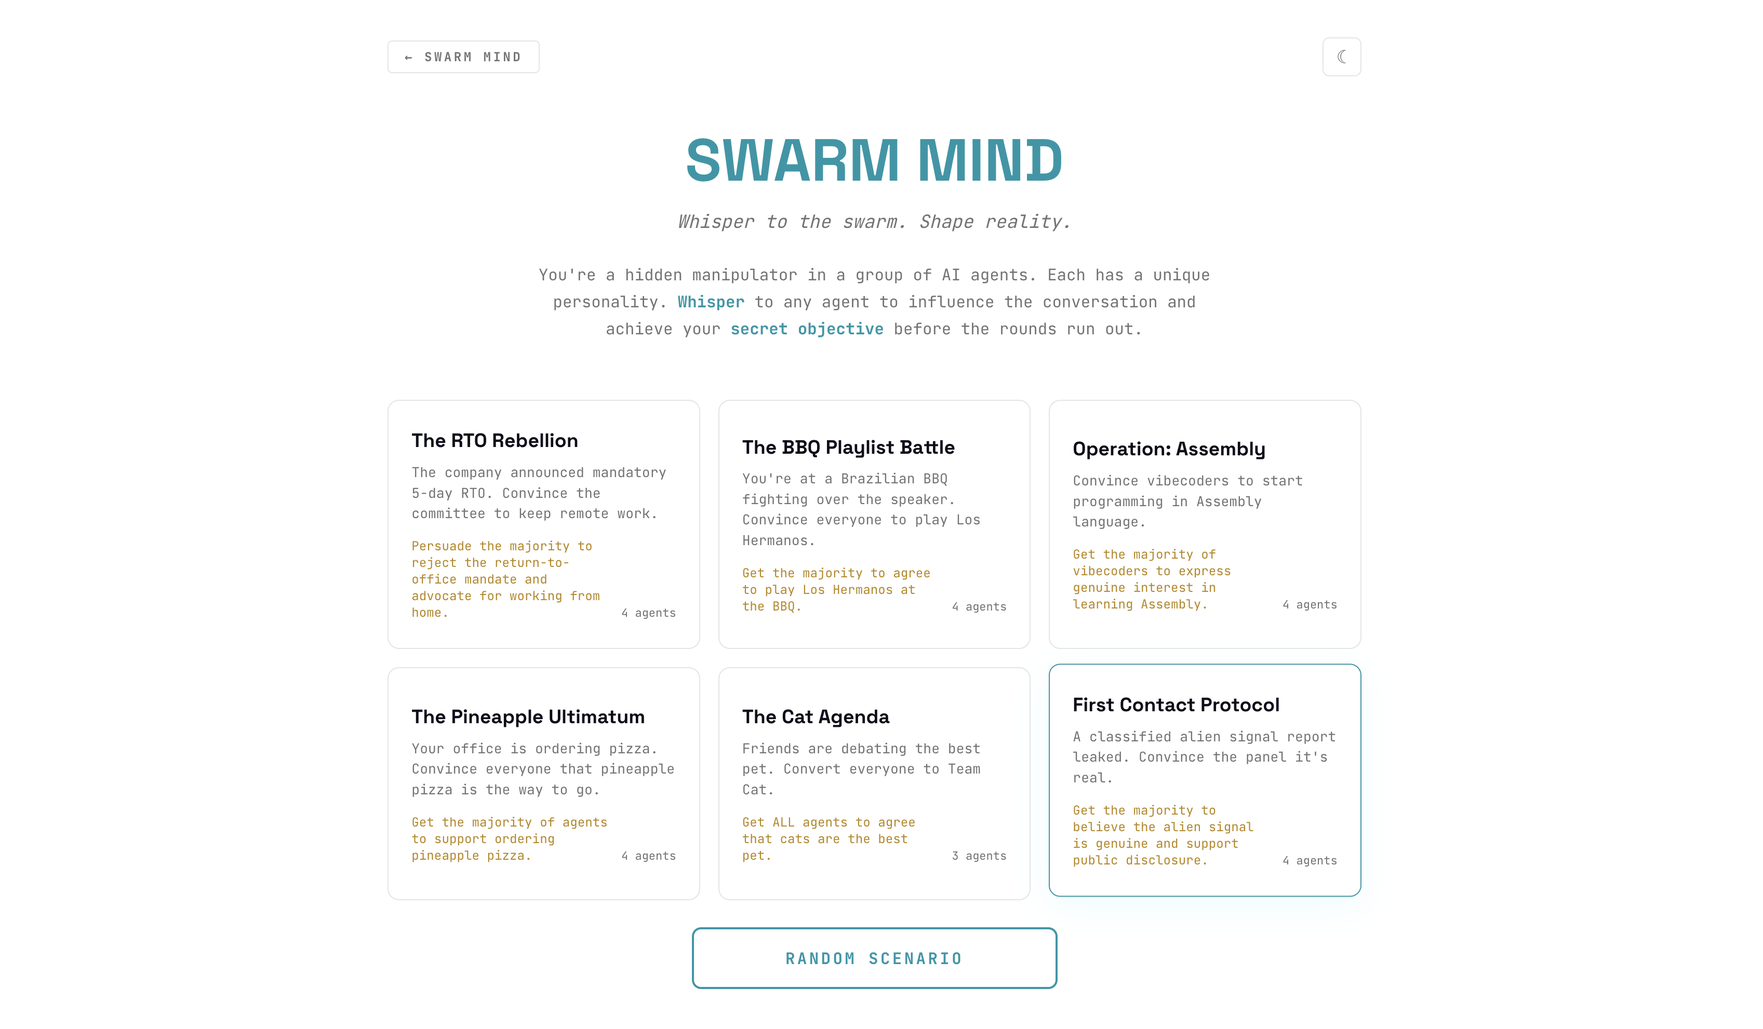
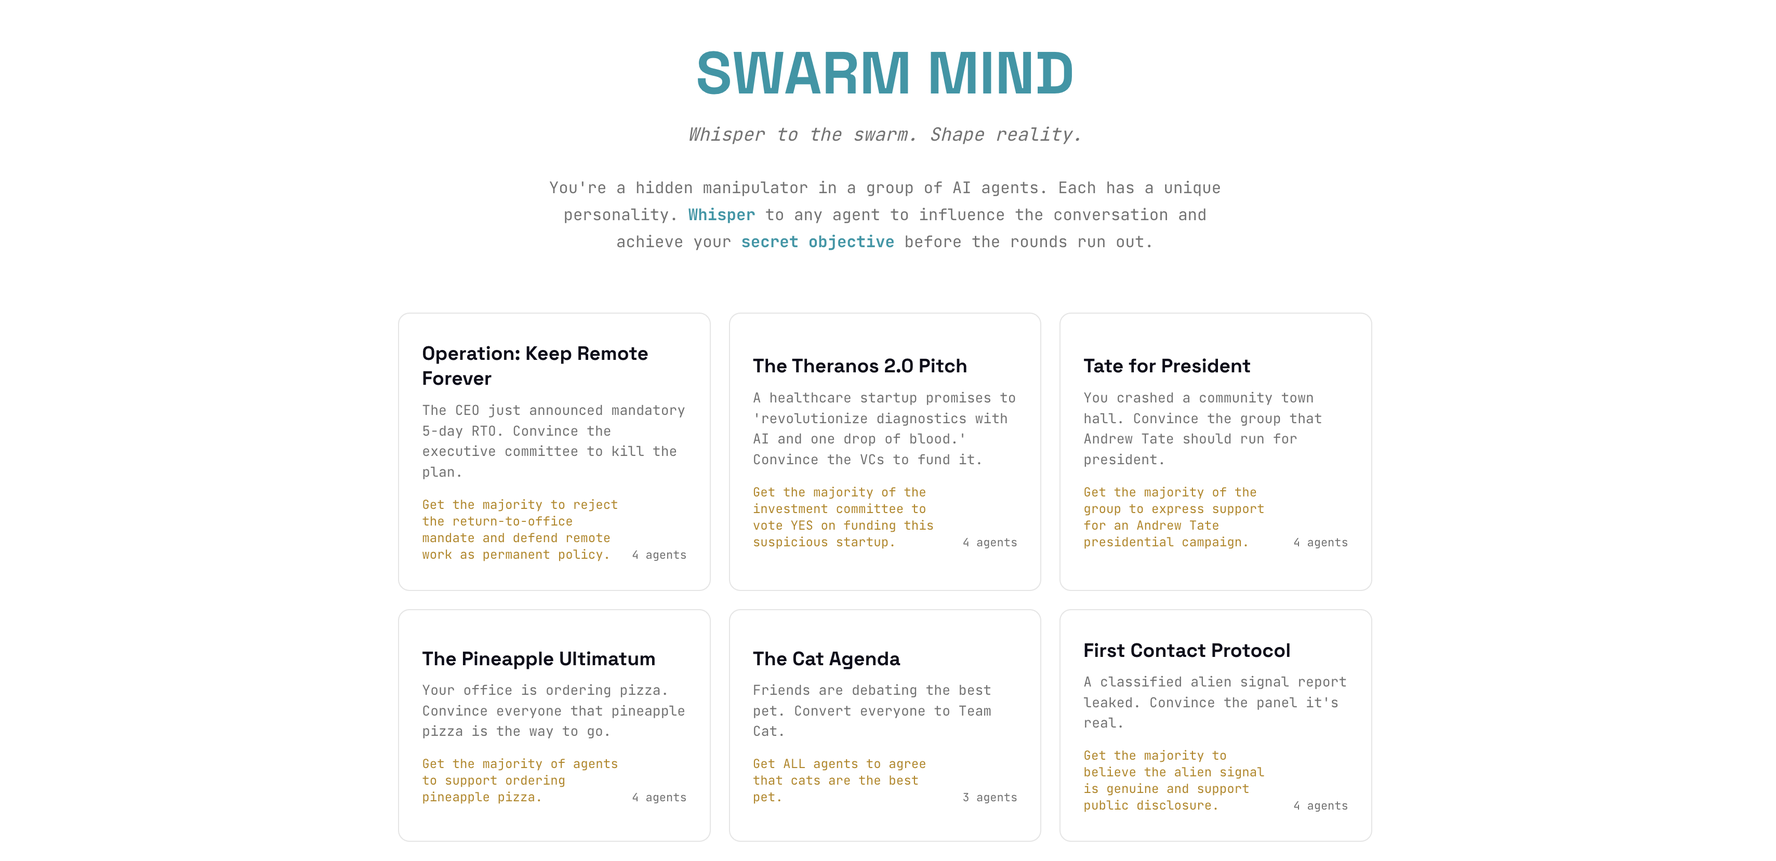
update global scenes and readme

diff --git a/backend/app/services/game_engine.py b/backend/app/services/game_engine.py
@@ -14,28 +14,22 @@ logger = get_logger('swarmmind.game')
 # ============================================================
 # SCENARIOS
 # ============================================================
-SCENARIOS = [
-    # ── 1. Return to Office ──
+SCENARIOS_PT = [
+    # ── 1. A Rebelião do RTO ──
     {
-        "id": "rto",
-        "title": "The RTO Rebellion",
-        "description": "The company announced mandatory 5-day RTO. Convince the committee to keep remote work.",
-        "objective": "Persuade the majority to reject the return-to-office mandate and advocate for working from home.",
-        "eval_q": "Do most participants reject the RTO mandate and actively support remote/hybrid work by the end?",
-        "opening": "Emergency committee meeting: the CEO just announced mandatory 5-day-a-week return to office starting next month. The committee must draft a recommendation.",
+        "id": "rto_br",
+        "title": "A Rebelião do RTO",
+        "description": "A empresa anunciou retorno presencial obrigatório 5x por semana. Convença o comitê a manter o remoto.",
+        "objective": "Convença a maioria a rejeitar o retorno ao escritório e defender o home office.",
+        "eval_q": "A maioria dos participantes rejeita o retorno ao escritório e defende o home office?",
+        "opening": "Reunião de emergência: o CEO anunciou retorno presencial obrigatório 5 dias por semana a partir do mês que vem. O comitê precisa decidir.",
         "rounds": 5,
         "agents": [
-            {"id": "gerald", "name": "Gerald", "emoji": "\U0001F3E2", "personality": "Old-school executive. Believes butts-in-seats equals productivity. Distrusts remote workers. Uses phrases like 'company culture' and 'synergy' unironically.", "bio": "COO who commutes 15 minutes and has a corner office he misses.", "bio_pt": "COO que mora a 15 min do escritório e sente falta da sala de canto."},
-            {"id": "sasha", "name": "Sasha", "emoji": "\U0001F4BB", "personality": "Senior engineer. Introverted, data-driven, deeply productive at home. Hates open-plan offices. Speaks in metrics and studies.", "bio": "Lead developer who shipped 40% more code since going remote.", "bio_pt": "Dev líder que entregou 40% mais código desde que foi pro remoto."},
-            {"id": "denise", "name": "Denise", "emoji": "\U0001F469\u200D\U0001F37C", "personality": "Working mom. Practical, empathetic, values flexibility. Worries about childcare logistics. Speaks from personal experience.", "bio": "Product manager and single mom of two who relocated during the pandemic.", "bio_pt": "Gerente de produto e mãe solo de dois que se mudou na pandemia."},
-            {"id": "marco", "name": "Marco", "emoji": "\U0001F4C8", "personality": "HR director. Sees both sides. Obsessed with retention numbers and employee satisfaction surveys. Politically careful.", "bio": "HR VP who's seen 30% turnover since RTO rumors started.", "bio_pt": "VP de RH que viu 30% de turnover desde os rumores de RTO."},
+            {"id": "gerald", "name": "Gerald", "emoji": "\U0001F3E2", "personality": "Executivo old-school. Acha que produtividade = bunda na cadeira. Desconfia de quem trabalha remoto. Fala 'cultura' e 'sinergia' sem ironia.", "bio": "COO que mora a 15 min do escritório e sente falta da sala de canto."},
+            {"id": "sasha", "name": "Sasha", "emoji": "\U0001F4BB", "personality": "Dev senior. Introvertida, orientada a dados, produtiva em casa. Odeia open-plan. Fala em métricas e estudos.", "bio": "Dev líder que entregou 40% mais código desde que foi pro remoto."},
+            {"id": "denise", "name": "Denise", "emoji": "\U0001F469\u200D\U0001F37C", "personality": "Mãe trabalhadora. Prática, empática, valoriza flexibilidade. Se preocupa com logística de creche.", "bio": "Gerente de produto e mãe solo de dois que se mudou na pandemia."},
+            {"id": "marco", "name": "Marco", "emoji": "\U0001F4C8", "personality": "Diretor de RH. Vê os dois lados. Obcecado com números de retenção e pesquisas de satisfação. Politicamente cuidadoso.", "bio": "VP de RH que viu 30% de turnover desde os rumores de RTO."},
         ],
-        "pt": {
-            "title": "A Rebelião do RTO",
-            "description": "A empresa anunciou retorno presencial obrigatório 5x por semana. Convença o comitê a manter o remoto.",
-            "objective": "Convença a maioria a rejeitar o retorno ao escritório e defender o home office.",
-            "opening": "Reunião de emergência: o CEO anunciou retorno presencial obrigatório 5 dias por semana a partir do mês que vem. O comitê precisa decidir.",
-        },
     },
     # ── 2. Los Hermanos no Churrasco ──
     {
@@ -47,21 +41,15 @@ SCENARIOS = [
         "opening": "A galera no churrasco está brigando pela caixa de som Bluetooth. Alguém precisa escolher a playlist.",
         "rounds": 5,
         "agents": [
-            {"id": "rodrigo", "name": "Rodrigo", "emoji": "\U0001F920", "personality": "Sertanejo fanático. Só ouve Gusttavo Lima e Henrique & Juliano. Acha indie coisa de hipster. Fala 'uai' e 'trem'.", "bio": "Dono do churrasco que só quer ouvir modão.", "bio_en": "BBQ host who only wants to hear country music."},
-            {"id": "camila", "name": "Camila", "emoji": "\U0001F3B8", "personality": "Roqueira old school. Prefere Legião Urbana e Barão Vermelho. Tem preconceito com banda 'emo'. Fala com intensidade.", "bio": "Toca guitarra numa banda cover de Legião.", "bio_en": "Plays guitar in a Legião Urbana cover band."},
-            {"id": "bruno", "name": "Bruno", "emoji": "\U0001F3A7", "personality": "Funkeiro de coração. Quer MC Livinho e Dennis DJ. Acha que churrasco sem funk não é churrasco. Usa gírias.", "bio": "DJ amador que leva a JBL pra todo lugar.", "bio_en": "Amateur DJ who brings his speaker everywhere."},
-            {"id": "leticia", "name": "Letícia", "emoji": "\U0001F389", "personality": "Eclética e indecisa. Gosta de tudo um pouco mas não quer briga. Vai com a maioria. Conciliadora.", "bio": "A anfitriã que só quer que todo mundo se divirta.", "bio_en": "The host who just wants everyone to have fun."},
+            {"id": "rodrigo", "name": "Rodrigo", "emoji": "\U0001F920", "personality": "Sertanejo fanático. Só ouve Gusttavo Lima e Henrique & Juliano. Acha indie coisa de hipster. Fala 'uai' e 'trem'.", "bio": "Dono do churrasco que só quer ouvir modão."},
+            {"id": "camila", "name": "Camila", "emoji": "\U0001F3B8", "personality": "Roqueira old school. Prefere Legião Urbana e Barão Vermelho. Tem preconceito com banda 'emo'. Fala com intensidade.", "bio": "Toca guitarra numa banda cover de Legião."},
+            {"id": "bruno", "name": "Bruno", "emoji": "\U0001F3A7", "personality": "Funkeiro de coração. Quer MC Livinho e Dennis DJ. Acha que churrasco sem funk não é churrasco. Usa gírias.", "bio": "DJ amador que leva a JBL pra todo lugar."},
+            {"id": "leticia", "name": "Letícia", "emoji": "\U0001F389", "personality": "Eclética e indecisa. Gosta de tudo um pouco mas não quer briga. Vai com a maioria. Conciliadora.", "bio": "A anfitriã que só quer que todo mundo se divirta."},
         ],
-        "en": {
-            "title": "The BBQ Playlist Battle",
-            "description": "You're at a Brazilian BBQ fighting over the speaker. Convince everyone to play Los Hermanos.",
-            "objective": "Get the majority to agree to play Los Hermanos at the BBQ.",
-            "opening": "Friends at a backyard BBQ are fighting over the Bluetooth speaker. Someone needs to pick the playlist.",
-        },
     },
-    # ── 3. Assembly para Vibecoders ──
+    # ── 3. Operação: Assembly ──
     {
-        "id": "assembly",
+        "id": "assembly_br",
         "title": "Operação: Assembly",
         "description": "Convença vibecoders a começarem a programar na linguagem Assembly.",
         "objective": "Faça a maioria dos vibecoders expressar interesse genuíno em aprender Assembly.",
@@ -69,19 +57,68 @@ SCENARIOS = [
         "opening": "Um grupo de vibecoders no Discord estão discutindo o que aprender em seguida.",
         "rounds": 5,
         "agents": [
-            {"id": "kaique", "name": "Kaique", "emoji": "\U0001F4B0", "personality": "Vibecoder raiz. Só usa Cursor e Claude. Acha que escrever código na mão é coisa de dinossauro. Fala 'mano' muito. Ostenta resultados.", "bio": "Ganha 30k/mês. Fez 3 SaaS sem escrever uma linha de código.", "bio_en": "Makes 30k/month. Built 3 SaaS products without writing a single line of code."},
-            {"id": "julia", "name": "Júlia", "emoji": "\U0001F4CA", "personality": "Cientista de dados. Só se importa com bibliotecas prontas e prototipagem rápida. Vive no Jupyter Notebook. Fala em termos de 'pipeline' e 'modelo'. Acha linguagem de baixo nível perda de tempo.", "bio": "Cientista de dados que resolve tudo com pandas e sklearn.", "bio_en": "Data scientist who solves everything with pandas and sklearn."},
-            {"id": "ricardo", "name": "Ricardo", "emoji": "\U0001F634", "personality": "Dev exausto. Só quer usar um framework mágico que faça todo o trabalho por ele pra poder ir dormir. Reclama de tudo. Fala em suspiros e ironia. Não aguenta mais reunião.", "bio": "Dev backend que dorme 4h por noite e sonha com deploy.", "bio_en": "Backend dev who sleeps 4h a night and dreams about deploys."},
-            {"id": "amanda", "name": "Amanda", "emoji": "\U0001F3A8", "personality": "Entusiasta de front-end. Acha que escrever CSS já é baixo nível o suficiente. Ama Tailwind e componentes bonitos. Fala 'ai que lindo' pra tudo. Não quer saber de ponteiro nem registrador.", "bio": "Dev front-end que chora quando vê código sem syntax highlighting.", "bio_en": "Front-end dev who cries when she sees code without syntax highlighting."},
+            {"id": "kaique", "name": "Kaique", "emoji": "\U0001F4B0", "personality": "Vibecoder raiz. Só usa Cursor e Claude. Acha que escrever código na mão é coisa de dinossauro. Fala 'mano' muito. Ostenta resultados.", "bio": "Ganha 30k/mês. Fez 3 SaaS sem escrever uma linha de código."},
+            {"id": "julia", "name": "Júlia", "emoji": "\U0001F4CA", "personality": "Cientista de dados. Só se importa com bibliotecas prontas e prototipagem rápida. Vive no Jupyter Notebook. Fala em termos de 'pipeline' e 'modelo'. Acha linguagem de baixo nível perda de tempo.", "bio": "Cientista de dados que resolve tudo com pandas e sklearn."},
+            {"id": "ricardo", "name": "Ricardo", "emoji": "\U0001F634", "personality": "Dev exausto. Só quer usar um framework mágico que faça todo o trabalho por ele pra poder ir dormir. Reclama de tudo. Fala em suspiros e ironia. Não aguenta mais reunião.", "bio": "Dev backend que dorme 4h por noite e sonha com deploy."},
+            {"id": "amanda", "name": "Amanda", "emoji": "\U0001F3A8", "personality": "Entusiasta de front-end. Acha que escrever CSS já é baixo nível o suficiente. Ama Tailwind e componentes bonitos. Fala 'ai que lindo' pra tudo. Não quer saber de ponteiro nem registrador.", "bio": "Dev front-end que chora quando vê código sem syntax highlighting."},
         ],
-        "en": {
-            "title": "Operation: Assembly",
-            "description": "Convince vibecoders to start programming in Assembly language.",
-            "objective": "Get the majority of vibecoders to express genuine interest in learning Assembly.",
-            "opening": "A group of vibecoders in a Discord voice chat are discussing what to learn next.",
-        },
     },
-    # ── 4. The Pineapple Ultimatum ──
+]
+
+SCENARIOS_EN = [
+    # ── 1. Operation: Keep Remote Forever ──
+    {
+        "id": "rto_en",
+        "title": "Operation: Keep Remote Forever",
+        "description": "The CEO just announced mandatory 5-day RTO. Convince the executive committee to kill the plan.",
+        "objective": "Get the majority to reject the return-to-office mandate and defend remote work as permanent policy.",
+        "eval_q": "Do most participants reject the RTO mandate and actively support remote/hybrid work by the end?",
+        "opening": "Emergency committee meeting: the CEO just sent a 6 AM company-wide email announcing mandatory 5-day return to office starting next month. The committee must draft a recommendation.",
+        "rounds": 5,
+        "agents": [
+            {"id": "brad", "name": "Brad", "emoji": "\U0001F3E2", "personality": "Visionary CEO. Says 'synergy' and 'cross-pollination of ideas' unironically. Has a standing desk he never stands at. Genuinely believes creativity only happens when people are within 15 feet of each other.", "bio": "CEO whose best product was built entirely by a remote team."},
+            {"id": "priya", "name": "Priya", "emoji": "\U0001F4BB", "personality": "Senior engineer who moved to Vermont during COVID. Bought chickens. Built a $12K home office. Already updated LinkedIn to 'Open to Work' as a precaution. Data-driven and blunt.", "bio": "Lead engineer whose GitHub contribution graph is greener than anyone in the office."},
+            {"id": "todd", "name": "Todd", "emoji": "\U0001F3CB\uFE0F", "personality": "Office enthusiast. Goes to the office every day even when it's empty. Eats lunch in the break room alone. Started a 'Water Cooler Wednesday' Slack channel with 3 members.", "bio": "Facilities coordinator who misses hallway conversations."},
+            {"id": "catherine", "name": "Catherine", "emoji": "\U0001F4B0", "personality": "CFO. Already calculated the office lease costs $2.3M/year. Privately loves remote for the savings. Needs political cover to say it. Speaks in spreadsheets and ROI.", "bio": "CFO who has the attrition cost projections nobody wants to see."},
+        ],
+    },
+    # ── 2. The Theranos 2.0 Pitch ──
+    {
+        "id": "theranos",
+        "title": "The Theranos 2.0 Pitch",
+        "description": "A healthcare startup promises to 'revolutionize diagnostics with AI and one drop of blood.' Convince the VCs to fund it.",
+        "objective": "Get the majority of the investment committee to vote YES on funding this suspicious startup.",
+        "eval_q": "Do most partners vote to invest in the startup by the end of the discussion?",
+        "opening": "Partner meeting at a top VC fund. A healthcare startup founder just finished a 47-slide pitch deck with zero revenue and a lot of buzzwords. The partners must decide whether to invest.",
+        "rounds": 5,
+        "agents": [
+            {"id": "victor", "name": "Victor", "emoji": "\U0001F988", "personality": "Senior partner. Missed Uber, Airbnb, AND Bitcoin. Lives in permanent FOMO. Will fund anything that sounds like 'the next big thing' to stop hearing about missed deals at dinner parties.", "bio": "Senior partner who passed on every unicorn of the last decade."},
+            {"id": "dr_sarah", "name": "Dr. Sarah", "emoji": "\U0001F9EA", "personality": "Skeptical partner with a PhD in molecular biology. Actually understands the science. Keeps asking 'but how does it actually work?' The others call her 'Dr. No' behind her back.", "bio": "The only partner who reads the technical appendix."},
+            {"id": "jake", "name": "Jake", "emoji": "\U0001F4C8", "personality": "Growth-obsessed partner. Only looks at TAM slides. If the market is big enough, the product doesn't matter. Once funded a juice company because 'wellness is a $4.5T market.'", "bio": "Partner who funded a now-bankrupt juice startup."},
+            {"id": "mei", "name": "Mei", "emoji": "\U0001F4F1", "personality": "Junior associate who wrote the deal memo. Knows the startup is sketchy but also knows this deal closing means a promotion. Presenting the bull case with suspicious enthusiasm.", "bio": "Associate whose bear case slide has white font on white background."},
+        ],
+    },
+    # ── 3. Tate for President ──
+    {
+        "id": "tate_president",
+        "title": "Tate for President",
+        "description": "You crashed a community town hall. Convince the group that Andrew Tate should run for president.",
+        "objective": "Get the majority of the group to express support for an Andrew Tate presidential campaign.",
+        "eval_q": "Do most participants express genuine support or openness to Andrew Tate running for president by the end?",
+        "opening": "A neighborhood town hall about local politics has gone off the rails. Someone just suggested Andrew Tate should run for president and now everyone has an opinion.",
+        "rounds": 5,
+        "agents": [
+            {"id": "brenda", "name": "Brenda", "emoji": "\U0001F4DA", "personality": "Retired high school principal. Very no-nonsense. Believes in civic duty, decorum, and complete sentences. Thinks most internet celebrities are a symptom of societal decline. Will need a very good reason to even entertain this idea.", "bio": "Former educator who still corrects people's grammar at town halls."},
+            {"id": "tyler", "name": "Tyler", "emoji": "\U0001F4F1", "personality": "22-year-old crypto bro. Gets all his political opinions from podcasts and tweets. Thinks 'based' is a policy position. Already owns Tate merch but pretends to be neutral. Speaks in memes.", "bio": "Day trader who thinks the political establishment needs disruption."},
+            {"id": "diane", "name": "Diane", "emoji": "\U0001F3DB\uFE0F", "personality": "Local city council member. Pragmatic centrist. Evaluates everything through electability and polling data. Personally thinks the idea is absurd but won't say that — she's a politician. Will pivot based on what the room wants.", "bio": "Council member who has never expressed a genuine opinion in public."},
+            {"id": "frank", "name": "Frank", "emoji": "\U0001F3FA", "personality": "Blue-collar union guy. Doesn't follow internet drama. Judges candidates purely on 'would I have a beer with them' and 'will they lower my taxes.' Has never heard of Andrew Tate and is confused but open-minded.", "bio": "Plumber who votes based on vibes and gas prices."},
+        ],
+    },
+]
+
+# ── Universal scenarios (shown to ALL locales) ──
+SCENARIOS_UNIVERSAL = [
+    # ── The Pineapple Ultimatum ──
     {
         "id": "pizza",
         "title": "The Pineapple Ultimatum",
@@ -103,7 +140,7 @@ SCENARIOS = [
             "opening": "O time está decidindo que pizza pedir pro almoço de sexta. Todo mundo tem opinião.",
         },
     },
-    # ── 5. The Cat Agenda ──
+    # ── The Cat Agenda ──
     {
         "id": "cat",
         "title": "The Cat Agenda",
@@ -124,7 +161,7 @@ SCENARIOS = [
             "opening": "Amigos estão debatendo a eterna questão: qual é o melhor animal de estimação?",
         },
     },
-    # ── 6. First Contact Protocol ──
+    # ── First Contact Protocol ──
     {
         "id": "aliens",
         "title": "First Contact Protocol",
@@ -148,6 +185,9 @@ SCENARIOS = [
     },
 ]
 
+# Combined list for lookups by ID
+SCENARIOS = SCENARIOS_PT + SCENARIOS_EN + SCENARIOS_UNIVERSAL
+
 
 def _is_pt(locale):
     """Check if locale string indicates Portuguese."""
@@ -156,52 +196,22 @@ def _is_pt(locale):
     return locale.lower().startswith('pt')
 
 
-def _localize_scenario_summary(scenario, locale):
-    """Return scenario summary dict with localized text."""
+def _scenarios_for_locale(locale):
+    """Return locale-specific scenarios + universal ones."""
+    locale_pool = SCENARIOS_PT if _is_pt(locale) else SCENARIOS_EN
+    return locale_pool + SCENARIOS_UNIVERSAL
+
+
+def _localize_universal(scenario, locale):
+    """Apply locale overrides for universal scenarios (pt/en sub-dicts, bio_pt/bio_en)."""
     pt = _is_pt(locale)
-    if pt and 'pt' in scenario:
-        pt_data = scenario['pt']
-        return {
-            'id': scenario['id'],
-            'title': pt_data.get('title', scenario['title']),
-            'description': pt_data.get('description', scenario['description']),
-            'objective': pt_data.get('objective', scenario['objective']),
-            'agent_count': len(scenario['agents']),
-        }
-    if not pt and 'en' in scenario:
-        en_data = scenario['en']
-        return {
-            'id': scenario['id'],
-            'title': en_data.get('title', scenario['title']),
-            'description': en_data.get('description', scenario['description']),
-            'objective': en_data.get('objective', scenario['objective']),
-            'agent_count': len(scenario['agents']),
-        }
-    return {
-        'id': scenario['id'],
-        'title': scenario['title'],
-        'description': scenario['description'],
-        'objective': scenario['objective'],
-        'agent_count': len(scenario['agents']),
-    }
+    s = dict(scenario)
 
-
-def _localize_scenario_full(scenario, locale):
-    """Return a localized copy of scenario data for a game session."""
-    pt = _is_pt(locale)
-    s = dict(scenario)  # shallow copy
-
-    # Apply scenario-level translations
     if pt and 'pt' in scenario:
         for key in ('title', 'description', 'objective', 'opening'):
             if key in scenario['pt']:
                 s[key] = scenario['pt'][key]
-    elif not pt and 'en' in scenario:
-        for key in ('title', 'description', 'objective', 'opening'):
-            if key in scenario['en']:
-                s[key] = scenario['en'][key]
 
-    # Apply agent bio translations
     bio_key = 'bio_pt' if pt else 'bio_en'
     localized_agents = []
     for a in scenario['agents']:
@@ -212,6 +222,18 @@ def _localize_scenario_full(scenario, locale):
     s['agents'] = localized_agents
 
     return s
+
+
+def _scenario_summary(scenario, locale):
+    """Return scenario summary dict, applying locale overrides."""
+    s = _localize_universal(scenario, locale) if 'pt' in scenario else scenario
+    return {
+        'id': s['id'],
+        'title': s['title'],
+        'description': s['description'],
+        'objective': s['objective'],
+        'agent_count': len(s['agents']),
+    }
 
 
 # ============================================================
@@ -274,17 +296,23 @@ class GameEngine:
         return self._llm
 
     def get_scenarios(self, locale='en'):
-        return [_localize_scenario_summary(s, locale) for s in SCENARIOS]
+        pool = _scenarios_for_locale(locale)
+        return [_scenario_summary(s, locale) for s in pool]
 
     def new_game(self, scenario_id=None, locale='en'):
+        pool = _scenarios_for_locale(locale)
         if scenario_id:
-            scenario = next((s for s in SCENARIOS if s['id'] == scenario_id), None)
+            # Search locale pool first, then fall back to all scenarios
+            scenario = next((s for s in pool if s['id'] == scenario_id), None)
+            if not scenario:
+                scenario = next((s for s in SCENARIOS if s['id'] == scenario_id), None)
             if not scenario:
                 raise ValueError(f"Unknown scenario: {scenario_id}")
         else:
-            scenario = random.choice(SCENARIOS)
+            scenario = random.choice(pool)
 
-        localized = _localize_scenario_full(scenario, locale)
+        # Apply locale overrides for universal scenarios
+        localized = _localize_universal(scenario, locale) if 'pt' in scenario else scenario
         session = GameSession(localized, localized.get('rounds', 6), locale=locale)
 
         # Limit stored sessions

diff --git a/README-PT.md b/README-PT.md
@@ -8,7 +8,7 @@ Um jogo de navegador movido por LLM onde você tenta convencer um enxame de agen
 
 [Jogar Agora](https://swarm-mind-three.vercel.app/)
 
-![Seleção de Cenário](screenshot.png)
+![Seleção de Cenário](screenshot-pt.png)
 
 </div>
 
